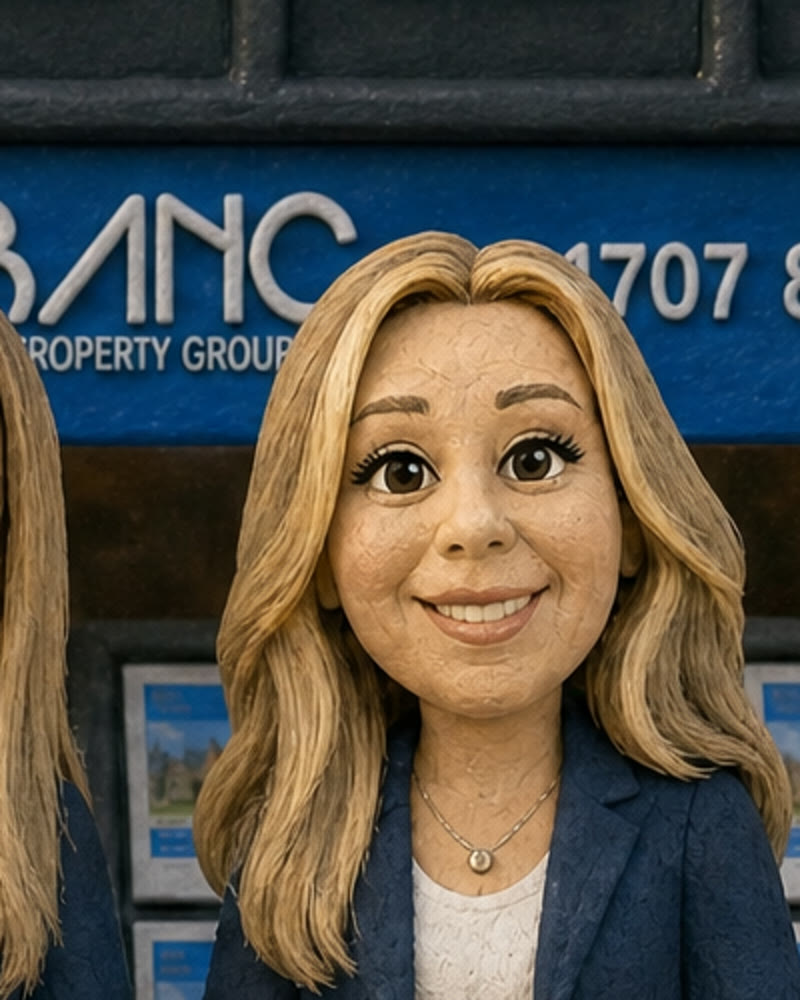
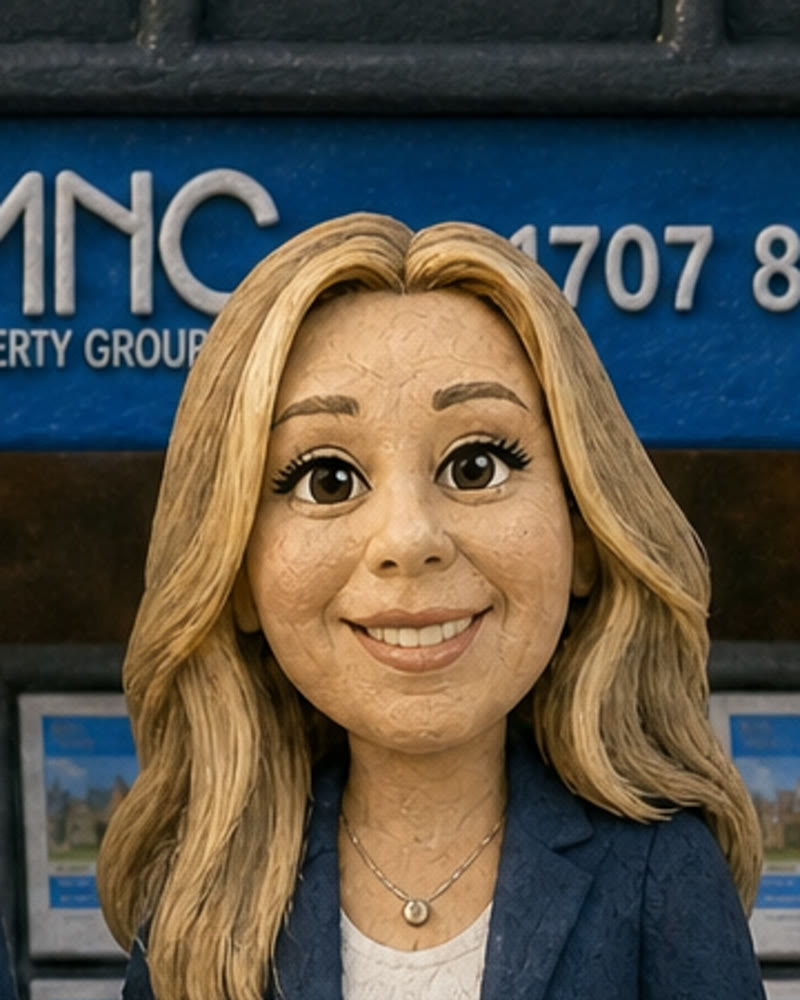
fix: respect reduced motion in team hero

diff --git a/components/team/TeamHeroMedia.tsx b/components/team/TeamHeroMedia.tsx
@@ -1,0 +1,68 @@
+"use client";
+
+import { useSyncExternalStore } from "react";
+import { TEAM_HERO_MEDIA, shouldRenderTeamHeroVideo } from "@/lib/team-media";
+
+const REDUCED_MOTION_QUERY = "(prefers-reduced-motion: reduce)";
+
+function subscribeToReducedMotion(onChange: () => void): () => void {
+  const mediaQuery = window.matchMedia(REDUCED_MOTION_QUERY);
+  mediaQuery.addEventListener("change", onChange);
+
+  return () => mediaQuery.removeEventListener("change", onChange);
+}
+
+function getReducedMotionPreference(): boolean {
+  return window.matchMedia(REDUCED_MOTION_QUERY).matches;
+}
+
+function getServerReducedMotionPreference(): boolean {
+  return true;
+}
+
+export function TeamHeroMedia() {
+  const prefersReducedMotion = useSyncExternalStore(
+    subscribeToReducedMotion,
+    getReducedMotionPreference,
+    getServerReducedMotionPreference,
+  );
+
+  return (
+    <div className="absolute inset-0">
+      <div
+        role="img"
+        aria-label="The Banc Property Group team outside the Cuffley office, recreated in clay"
+        className="team-hero-fallback absolute inset-0 bg-cover bg-center"
+      />
+      {shouldRenderTeamHeroVideo(prefersReducedMotion) && (
+        <video
+          className="absolute inset-0 h-full w-full object-cover"
+          autoPlay
+          muted
+          loop
+          playsInline
+          preload="metadata"
+          aria-hidden="true"
+        >
+          <source
+            src={TEAM_HERO_MEDIA.portraitVideo}
+            type="video/mp4"
+            media="(max-width: 767px)"
+          />
+          <source src={TEAM_HERO_MEDIA.landscapeVideo} type="video/mp4" />
+        </video>
+      )}
+      <style jsx>{`
+        .team-hero-fallback {
+          background-image: url("${TEAM_HERO_MEDIA.landscapeImage}");
+        }
+
+        @media (max-width: 767px) {
+          .team-hero-fallback {
+            background-image: url("${TEAM_HERO_MEDIA.portraitImage}");
+          }
+        }
+      `}</style>
+    </div>
+  );
+}

diff --git a/app/the-team/page.tsx b/app/the-team/page.tsx
@@ -3,6 +3,7 @@ import Image from "next/image";
 import { withPageDefaults } from "@/lib/seo";
 import Header from "@/components/Header";
 import Footer from "@/components/Footer";
+import { TeamHeroMedia } from "@/components/team/TeamHeroMedia";
 import { Button } from "@/components/ui/button";
 import { Input } from "@/components/ui/input";
 import { Textarea } from "@/components/ui/textarea";
@@ -90,31 +91,7 @@ export default function TeamPage() {
       
       {/* Hero Section */}
       <section className="relative min-h-[76svh] overflow-hidden bg-banc-dark-deep lg:min-h-[82svh]">
-        <Image
-          src="/images/team/banc-team-clay.jpg"
-          alt="The Banc Property Group team outside the Cuffley office, recreated in clay"
-          fill
-          priority
-          sizes="100vw"
-          className="object-cover object-center"
-        />
-        <video
-          className="absolute inset-0 hidden h-full w-full object-cover motion-safe:block motion-reduce:hidden"
-          autoPlay
-          muted
-          loop
-          playsInline
-          preload="metadata"
-          poster="/images/team/banc-team-clay.jpg"
-          aria-hidden="true"
-        >
-          <source
-            src="/videos/team/banc-team-clay-portrait.mp4"
-            type="video/mp4"
-            media="(max-width: 767px)"
-          />
-          <source src="/videos/team/banc-team-clay-landscape.mp4" type="video/mp4" />
-        </video>
+        <TeamHeroMedia />
         <div className="absolute inset-0 bg-black/45" />
 
         <div className="relative mx-auto flex min-h-[76svh] max-w-7xl items-end px-6 pb-16 pt-32 lg:min-h-[82svh] lg:px-10 lg:pb-20">

diff --git a/lib/__tests__/team-media.test.ts b/lib/__tests__/team-media.test.ts
@@ -1,7 +1,13 @@
 import assert from "node:assert/strict";
+import fs from "node:fs";
+import path from "node:path";
 import test from "node:test";
 
-import { getTeamPortrait } from "../team-media.ts";
+import {
+  getTeamPortrait,
+  shouldRenderTeamHeroVideo,
+  TEAM_HERO_MEDIA,
+} from "../team-media.ts";
 
 test("maps each Banc team member to the matching clay portrait", () => {
   assert.deepEqual(getTeamPortrait("Nitesh Bheda"), {
@@ -16,4 +22,22 @@ test("maps each Banc team member to the matching clay portrait", () => {
   assert.deepEqual(getTeamPortrait("Kay Stanley"), {
     src: "/images/team/kay-stanley-clay.jpg",
   });
+});
+
+test("ships responsive local hero media for both motion preferences", () => {
+  assert.deepEqual(TEAM_HERO_MEDIA, {
+    landscapeImage: "/images/team/banc-team-clay.jpg",
+    portraitImage: "/images/team/banc-team-clay-portrait.jpg",
+    landscapeVideo: "/videos/team/banc-team-clay-landscape.mp4",
+    portraitVideo: "/videos/team/banc-team-clay-portrait.mp4",
+  });
+  assert.equal(shouldRenderTeamHeroVideo(true), false);
+  assert.equal(shouldRenderTeamHeroVideo(false), true);
+
+  for (const source of Object.values(TEAM_HERO_MEDIA)) {
+    assert.ok(
+      fs.existsSync(path.join(process.cwd(), "public", source)),
+      `missing Team hero asset: ${source}`,
+    );
+  }
 });

diff --git a/lib/team-media.ts b/lib/team-media.ts
@@ -8,6 +8,13 @@ export interface TeamPortrait {
   src: string;
 }
 
+export const TEAM_HERO_MEDIA = {
+  landscapeImage: "/images/team/banc-team-clay.jpg",
+  portraitImage: "/images/team/banc-team-clay-portrait.jpg",
+  landscapeVideo: "/videos/team/banc-team-clay-landscape.mp4",
+  portraitVideo: "/videos/team/banc-team-clay-portrait.mp4",
+} as const;
+
 const TEAM_PORTRAITS: Record<TeamMemberName, TeamPortrait> = {
   "Nitesh Bheda": {
     src: "/images/team/nitesh-bheda-clay.jpg",
@@ -25,4 +32,8 @@ const TEAM_PORTRAITS: Record<TeamMemberName, TeamPortrait> = {
 
 export function getTeamPortrait(name: TeamMemberName): TeamPortrait {
   return TEAM_PORTRAITS[name];
+}
+
+export function shouldRenderTeamHeroVideo(prefersReducedMotion: boolean): boolean {
+  return !prefersReducedMotion;
 }
